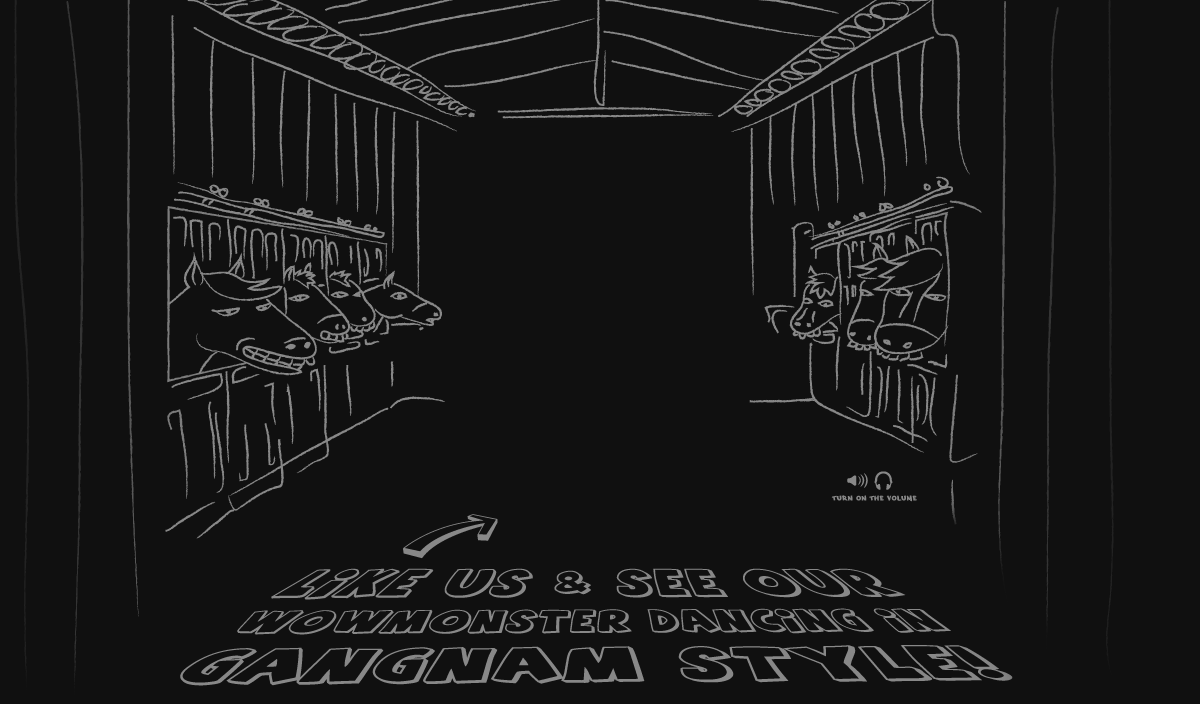
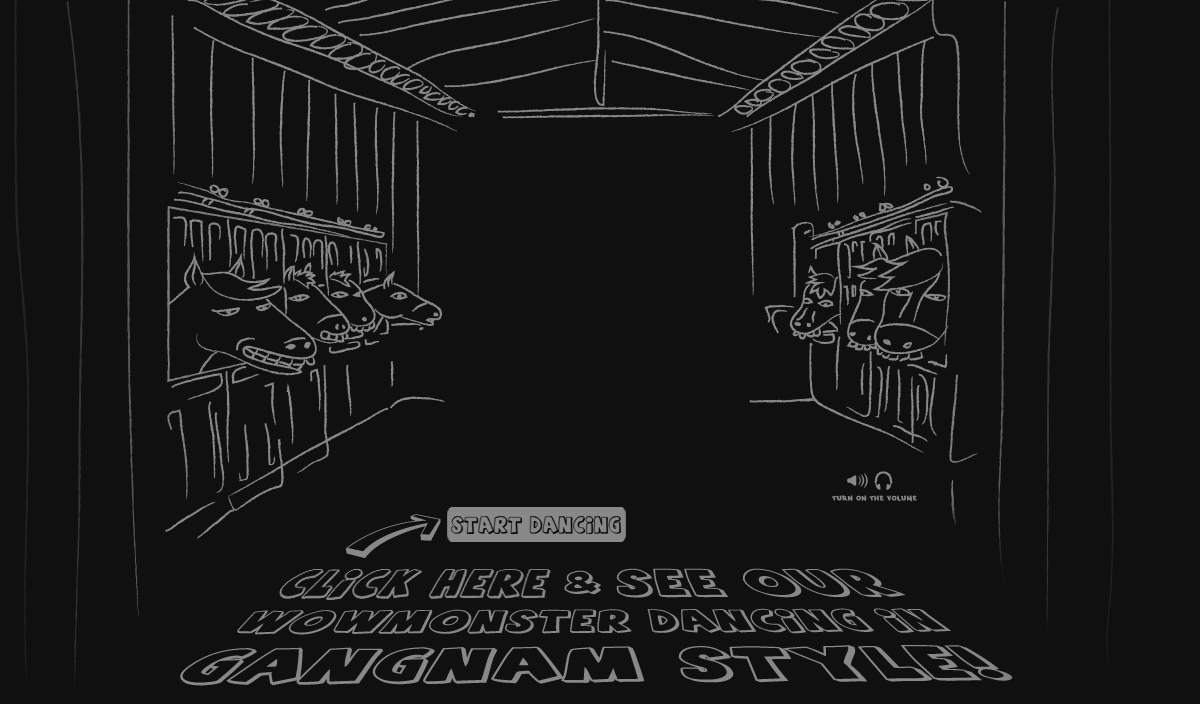
Add start dancing button

Changed region(s): [[0.2467, 0.7188, 0.5242, 0.875]]

diff --git a/index.html b/index.html
@@ -26,6 +26,7 @@
 
     <div class="like-wrapper">
       <div class="like-inner">
+        <div class = "button-click"><a href = "#">Click</a></div>
         <div class="fb-like" data-href="http://facebook.com/wowmakers" data-send="true" data-layout="button_count" data-width="500" data-show-faces="false" data-colorscheme="dark" data-font="arial"></div>
         <div class="tweet-this">
           <a href="https://twitter.com/share" class="twitter-share-button" data-url="http://like.wowmakers.com" data-text="The @wowmakers monster dances to the tune of Gangnam Style." data-via="wowmakers">Tweet</a>

diff --git a/css/main.css b/css/main.css
@@ -27,9 +27,18 @@ body {
   color: white;
   margin: 0 auto;
   height: 20px;
-  padding-left: 80px;
+  padding-left: 10px;
   text-align: center;
   width: 270px;
+
 }
-.fb-like, .tweet-this { float: left; }
+.button-click a {
+  display: block;
+  height: 34px;
+  width: 177px;
+  text-indent: -9999pt;
+  margin: -9px 0px -9px -22px;
+}
+.button-click { float: left; }
+.fb-like, .tweet-this { float: right; }
 .tweet-this { padding-left: 5px; }

diff --git a/js/main.js b/js/main.js
@@ -13,7 +13,7 @@ $(document).ready(function() {
   ]);
 
   $("#wow-monster,.like-wrapper").mouseenter(startFootTapping).mouseleave(stopFootTapping);
-  FB.Event.subscribe('edge.create', startDancing);
+  $(".button-click a").click(startDancing);
 });
 
 isLiked = false;
